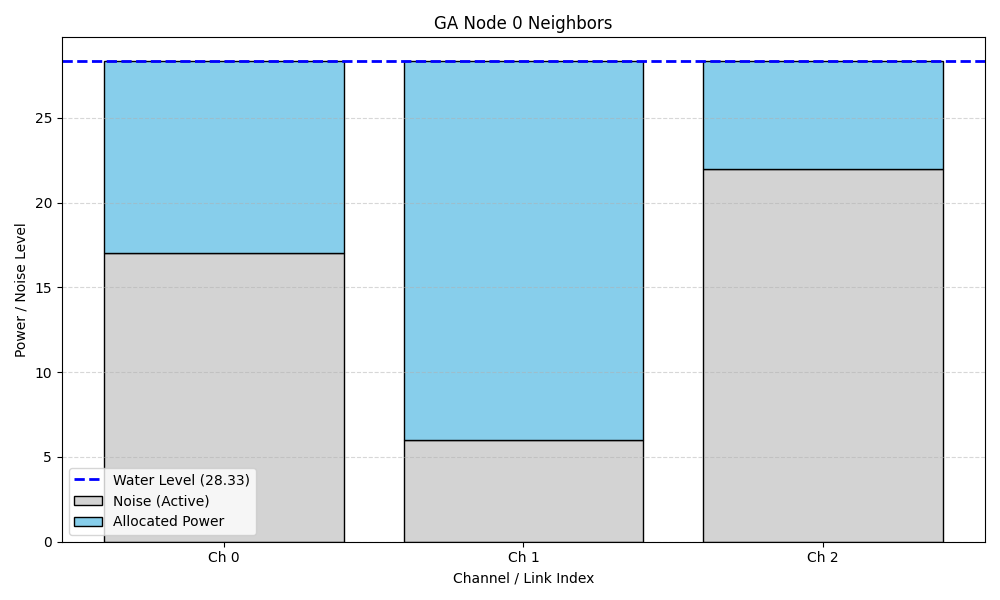
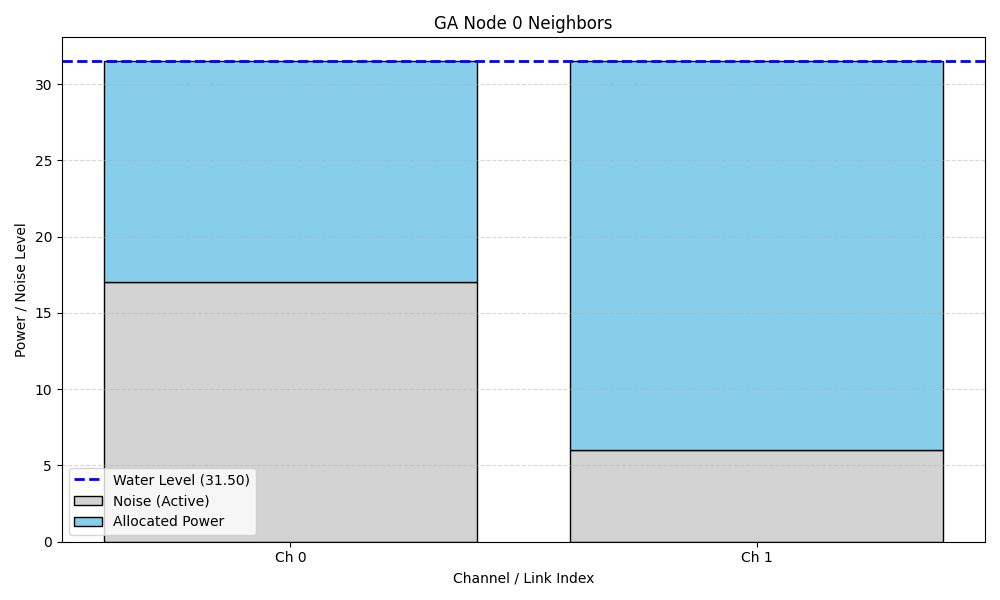
rigorous waterfilling draft

diff --git a/Test_Waterfilling_Network.py b/Test_Waterfilling_Network.py
@@ -13,6 +13,23 @@ from Opera_Alg import find_optimal_path_broken_racks, find_path_2d
 if not os.path.exists('plots'):
     os.makedirs('plots')
 
+def run_rigorous_waterfilling(base_noise, total_power, iterations=500, noise_std=1.0):
+    """
+    Runs the waterfilling algorithm multiple times with added Gaussian noise 
+    and returns the average and standard deviation of allocations.
+    """
+    base_noise = np.array(base_noise)
+    all_allocations = []
+    
+    for _ in range(iterations):
+        # Add random Gaussian noise to the base noise levels
+        # Ensuring noise is at least a small positive value
+        stochastic_noise = np.maximum(base_noise + np.random.normal(0, noise_std, base_noise.shape), 0.1)
+        alloc = waterfilling(stochastic_noise, total_power)
+        all_allocations.append(alloc)
+        
+    return np.mean(all_allocations, axis=0), np.std(all_allocations, axis=0)
+
 
 def test_opera_waterfilling():
     print("\n=== Testing Waterfilling with Opera Context ===")
@@ -39,6 +56,13 @@ def test_opera_waterfilling():
 
     # Visualize
     visualize_waterfilling(rack_weights, total_power, title="Opera Waterfilling Bottlenecks")
+
+    print("\n--- Rigorous Test (Averaged over 500 iterations with noise) ---")
+    avg_p, std_p = run_rigorous_waterfilling(rack_weights, total_power)
+    for i, (m, s) in enumerate(zip(avg_p, std_p)):
+        print(f"  Rack {i}: {m:.2f} (±{s:.2f})")
+    
+    visualize_waterfilling(rack_weights, total_power, title="Opera Average Allocation (Rigorous)", filename="opera_rigorous", yerr=std_p)
 
 def test_shale_waterfilling():
     print("\n=== Testing Waterfilling with Shale Context ===")
@@ -71,6 +95,13 @@ def test_shale_waterfilling():
 
     # Visualize
     visualize_waterfilling(link_noise, total_power, title="Shale Waterfilling Bottlenecks")
+
+    print("\n--- Rigorous Test (Averaged over 500 iterations with noise) ---")
+    avg_p, std_p = run_rigorous_waterfilling(link_noise, total_power)
+    for i, neighbor in enumerate(active_links):
+        print(f"  Link to Node {neighbor}: {avg_p[i]:.2f} (±{std_p[i]:.2f})")
+    
+    visualize_waterfilling(link_noise, total_power, title="Shale Average Allocation (Rigorous)", filename="shale_rigorous", yerr=std_p)
 def test_waterfilling_timeslots():
     print("\n=== Testing Waterfilling with Multiple Timeslots ===")
     channels = [
@@ -155,10 +186,22 @@ def test_sirius_waterfilling():
 
     visualize_waterfilling(channels, total_power, title="Sirius Waterfilling Bottlenecks")
 
-def visualize_waterfilling(channels, total_power, title="Waterfilling Results", filename=None):
+    print("\n--- Rigorous Test (Averaged per Timeslot) ---")
+    sirius_avg_all = []
+    sirius_std_all = []
+    for t in range(num_timeslots):
+        avg_p, std_p = run_rigorous_waterfilling(channels[t], total_power)
+        print(f"  Timeslot {t} Avg Allocation: {np.mean(avg_p):.2f}")
+        sirius_avg_all.append(avg_p)
+        sirius_std_all.append(std_p)
+    
+    visualize_waterfilling(channels, total_power, title="Sirius Averaged (Rigorous)", filename="sirius_rigorous", yerr=np.array(sirius_std_all))
+
+def visualize_waterfilling(channels, total_power, title="Waterfilling Results", filename=None, yerr=None):
     """
     Visualizes the waterfilling power allocation using a stacked bar chart.
     Highlights bottlenecks (channels with 0 allocated power due to high noise).
+    Supports error bars (yerr) for rigorous testing (averages).
     Saves the image if filename is provided.
     """
     channels = np.array(channels)
@@ -176,7 +219,8 @@ def visualize_waterfilling(channels, total_power, title="Waterfilling Results", 
             # Recursively call for each timeslot
             ts_suffix = f"_ts{t}"
             ts_filename = f"plots/{filename}{ts_suffix}.png" if filename else None
-            visualize_waterfilling(channels[t], powers[t], title=f"{title} - Timeslot {t}", filename=ts_filename)
+            ts_yerr = yerr[t] if yerr is not None else None
+            visualize_waterfilling(channels[t], powers[t], title=f"{title} - Timeslot {t}", filename=ts_filename, yerr=ts_yerr)
         return
 
     # --- 1D Logic ---
@@ -210,7 +254,7 @@ def visualize_waterfilling(channels, total_power, title="Waterfilling Results", 
     # 3. Plot Allocated Power (Blue)
     if np.any(active_mask):
         plt.bar(indices[active_mask], allocation[active_mask], bottom=channels[active_mask], 
-                label='Allocated Power', color='skyblue', edgecolor='black')
+                label='Allocated Power', color='skyblue', edgecolor='black', yerr=yerr[active_mask] if yerr is not None else None, capsize=5)
     
     # 4. Water Level Line
     plt.axhline(y=water_level, color='blue', linestyle='--', linewidth=2, label=f'Water Level ({water_level:.2f})')
@@ -229,7 +273,7 @@ def visualize_waterfilling(channels, total_power, title="Waterfilling Results", 
             save_path += '.png'
         plt.savefig(save_path)
         print(f"Saved plot to {save_path}")
-    plt.show()
+    plt.close() # Close to avoid memory issues and blocking show()
 
 def generate_diurnal_power(num_timeslots, baseline=30, amplitude=20):
     """Generates a sinusoidal power budget matching a day/night cycle."""
@@ -350,6 +394,11 @@ def test_genetic_algorithm_waterfilling():
     
     for i, node_noise in enumerate(all_timeslots_noise):
         visualize_waterfilling(node_noise, total_power, title=f"Genetic Algo - Node {i} Neighborhood", filename=f"genetic_node_{i}")
+        
+        # Rigorous check for each node
+        avg_p, std_p = run_rigorous_waterfilling(node_noise, total_power)
+        print(f"Node {i} Avg Power per Link: {np.mean(avg_p):.2f} (±{np.mean(std_p):.2f})")
+        visualize_waterfilling(node_noise, total_power, title=f"Genetic Algo - Node {i} Rigorous", filename=f"genetic_node_{i}_rigorous", yerr=std_p)
 
 
 def test_rr2_path():

diff --git a/Waterfilling_Alg.py b/Waterfilling_Alg.py
@@ -37,6 +37,32 @@ def waterfilling(channels, total_power):
     else:
         raise ValueError("Channels must be 1D or 2D array.")
 
+def _waterfilling_1d(channels, total_power):
+    """
+    Helper function for single timeslot waterfilling.
+    """
+    n = len(channels)
+    noise = np.array(channels)
+    
+    # Sort noise levels to easily find the water level
+    sorted_indices = np.argsort(noise)
+    sorted_noise = noise[sorted_indices]
+    
+    water_level = 0
+    
+    for i in range(n):
+        current_noise_sum = np.sum(sorted_noise[:n-i])
+        potential_water_level = (total_power + current_noise_sum) / (n - i)
+        
+        if potential_water_level > sorted_noise[n-i-1]:
+            water_level = potential_water_level
+            break
+            
+    # Calculate power allocation: P_i = (Water Level - Noise_i)+
+    power_allocation = np.maximum(water_level - noise, 0)
+    
+    return power_allocation
+
 if __name__ == "__main__":
     # Example Usage
     
